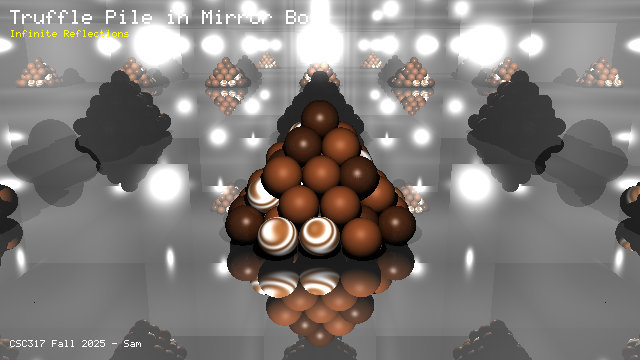
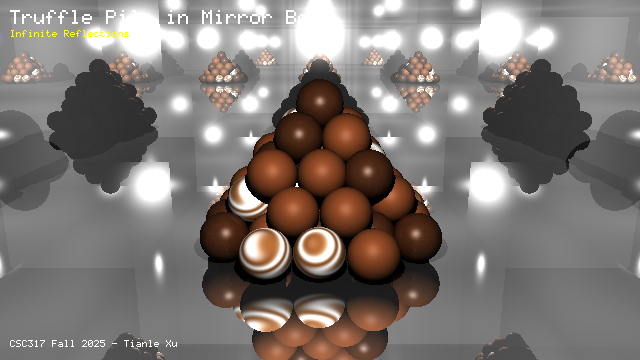
Update lighting to top-down, adjust camera and name

diff --git a/main.cpp b/main.cpp
@@ -22,7 +22,7 @@ int main(int argc, char * argv[])
 {
   // --- SCENE SETUP ---
   Camera camera;
-  camera.e = Eigen::Vector3d(0, 6, 20); // Moved camera further back
+  camera.e = Eigen::Vector3d(0, 5, 16); // Moved camera closer
   
   // Calculate camera basis vectors
   Eigen::Vector3d target(0, 1, 0); // Look at the pile
@@ -152,7 +152,7 @@ int main(int argc, char * argv[])
 
   // Lights
   auto point_light = std::make_shared<PointLight>();
-  point_light->p = Eigen::Vector3d(0, 6, 10); // Single light in front
+  point_light->p = Eigen::Vector3d(0, 9, 0); // Single light on top
   point_light->I = Eigen::Vector3d(1.5, 1.5, 1.5);
   lights.push_back(point_light);
 
@@ -193,7 +193,7 @@ int main(int argc, char * argv[])
   std::vector<unsigned char> yellow = {255, 255, 0};
   draw_text(rgb_image, width, height, "Truffle Pile in Mirror Box", 10, 10, white, 2);
   draw_text(rgb_image, width, height, "Infinite Reflections", 10, 30, yellow, 1);
-  draw_text(rgb_image, width, height, "CSC317 Fall 2025 - Sam", 10, height - 20, white, 1);
+  draw_text(rgb_image, width, height, "CSC317 Fall 2025 - Tianle Xu", 10, height - 20, white, 1);
 
   write_ppm("piece.ppm",rgb_image,width,height,3);
 }
